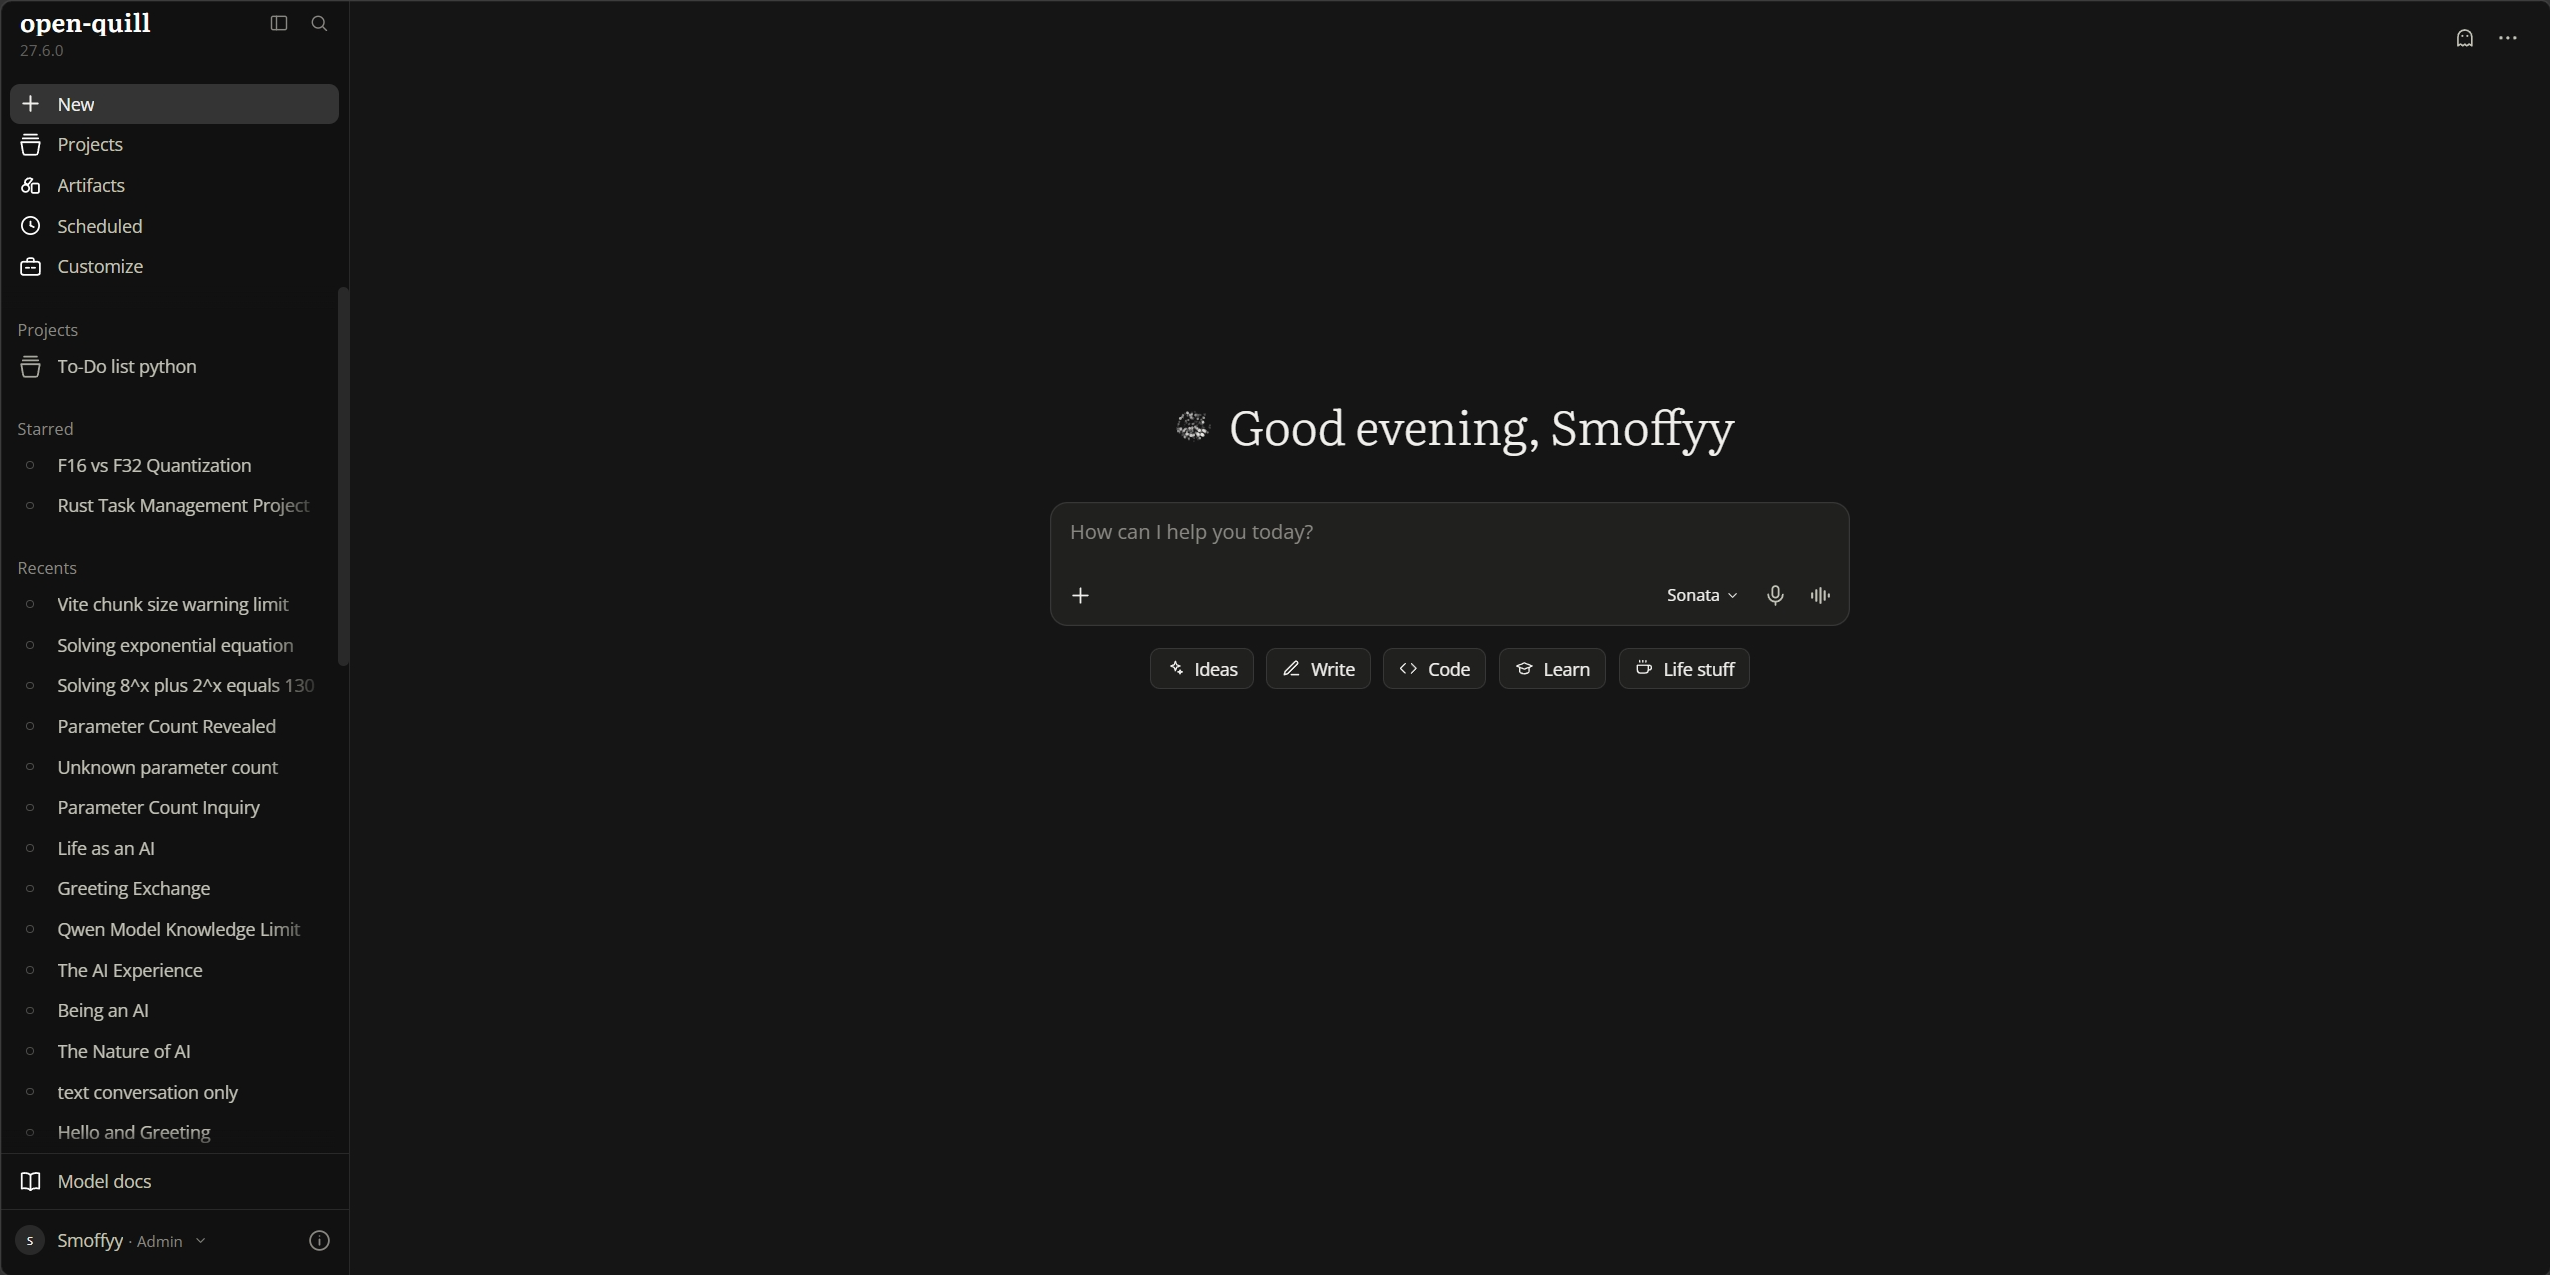
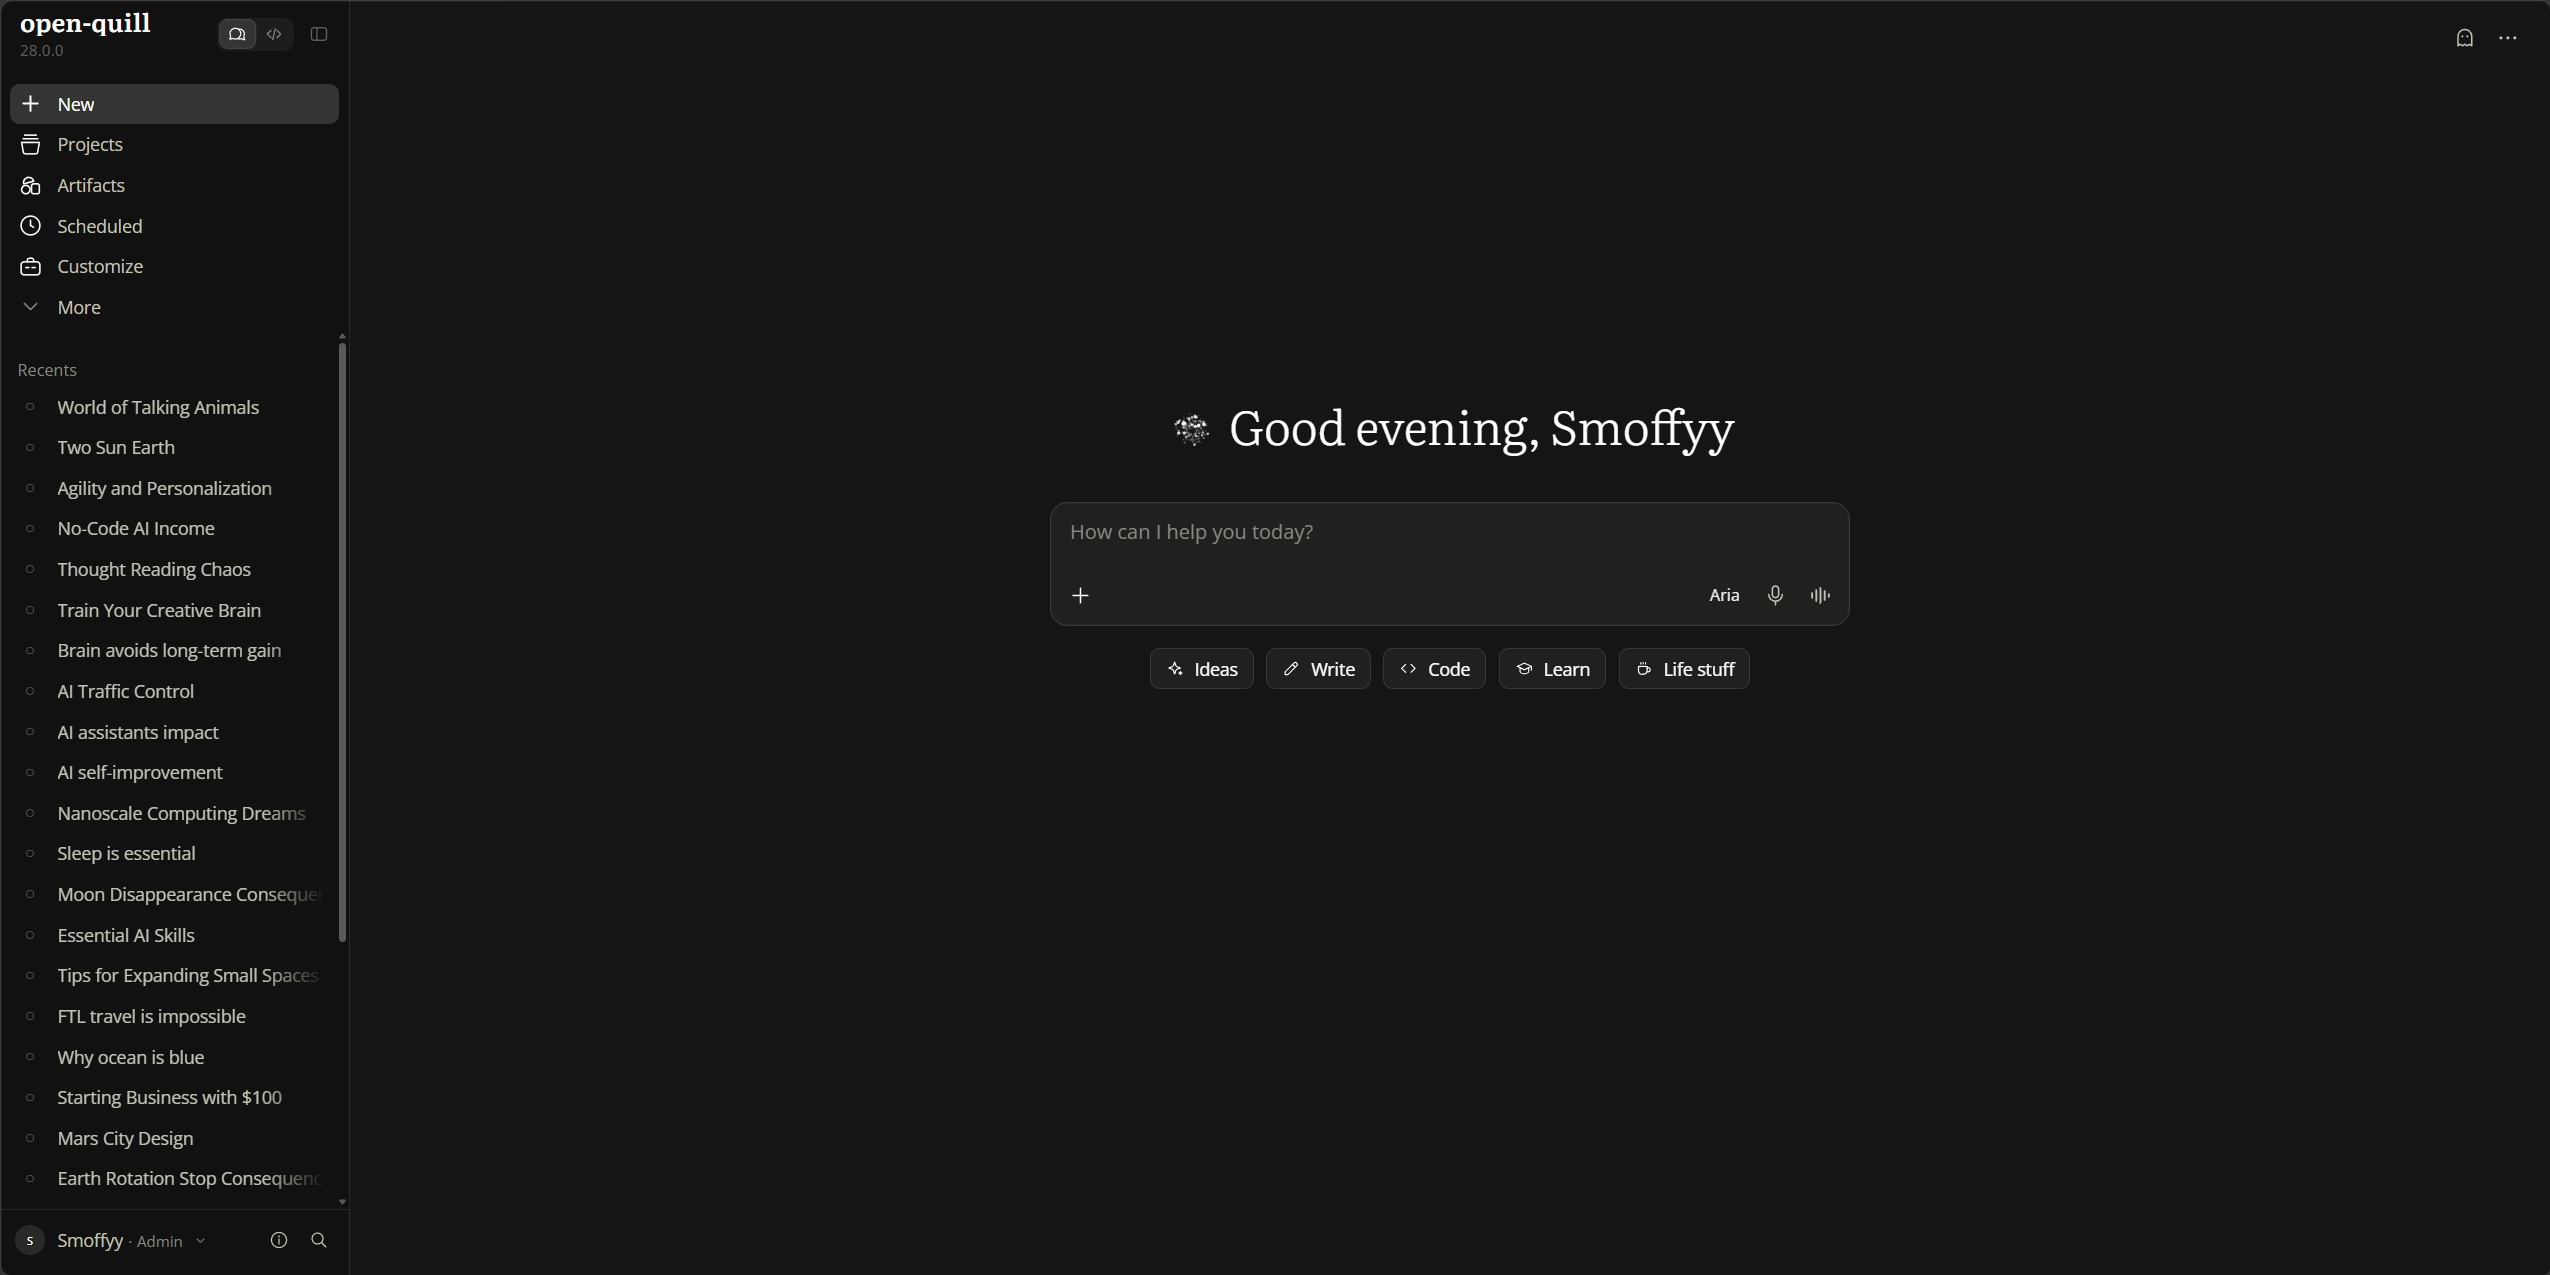
Update workflows and greeting

Changed region(s): [[0.0, 0.2447, 0.1549, 0.9482], [0.062, 0.0, 0.1239, 0.0306], [0.6506, 0.4588, 0.6816, 0.4894]]

diff --git a/AGENTS.md b/AGENTS.md
@@ -25,7 +25,7 @@ Server tests: `cd server && npm test` runs `node --test`, which auto-discovers e
 
 Client-only extras live in `client/`: `npm run dead:css` is an **advisory** unused-class report (a zero-hit class can still be emitted by a library), `npm run check:local` re-runs the off-origin check against an existing `dist/`.
 
-CI (`.github/workflows/ci.yml`, Node 24) runs, in order: server syntax check, `lint --quiet`, build, `i18n:check`, `smoke`, `check:release`, `test:client`, `cd server && npm test`. All must stay green.
+CI (`.github/workflows/ci.yml`, Node 26) runs, in order: server syntax check, `lint --quiet`, build, `i18n:check`, `smoke`, `check:release`, `test:client`, `cd server && npm test`. All must stay green.
 
 ## Not a marketing site
 

diff --git a/docs/building.md b/docs/building.md
@@ -4,7 +4,7 @@ This page covers installing Open Quill from source or from a release, configurin
 
 ## Requirements
 
-- **Node.js 22.23.2 or newer.** CI and release builds use Node 24, so use 24 if you hit a difference.
+- **Node.js 22.23.2 or newer.** CI and release builds use Node 26, so use 26 if you hit a difference.
 - **npm**, which comes with Node.
 - **A model**: one running on your machine (Ollama, llama.cpp, LM Studio or vLLM), or an API key from a cloud provider.
 - **Git**, if you clone the repository. Otherwise download a release.

diff --git a/docs/commands.md b/docs/commands.md
@@ -69,7 +69,7 @@ Run these in `client/`.
 
 ## What CI runs
 
-The workflow in `.github/workflows/ci.yml` runs on every push and pull request to `dev` and `main`, using Node 24. These steps run in order, and all must pass:
+The workflow in `.github/workflows/ci.yml` runs on every push and pull request to `dev` and `main`, using Node 26. These steps run in order, and all must pass:
 
 1. Syntax-check every server `.js` file
 2. `npm run lint -- --quiet`
